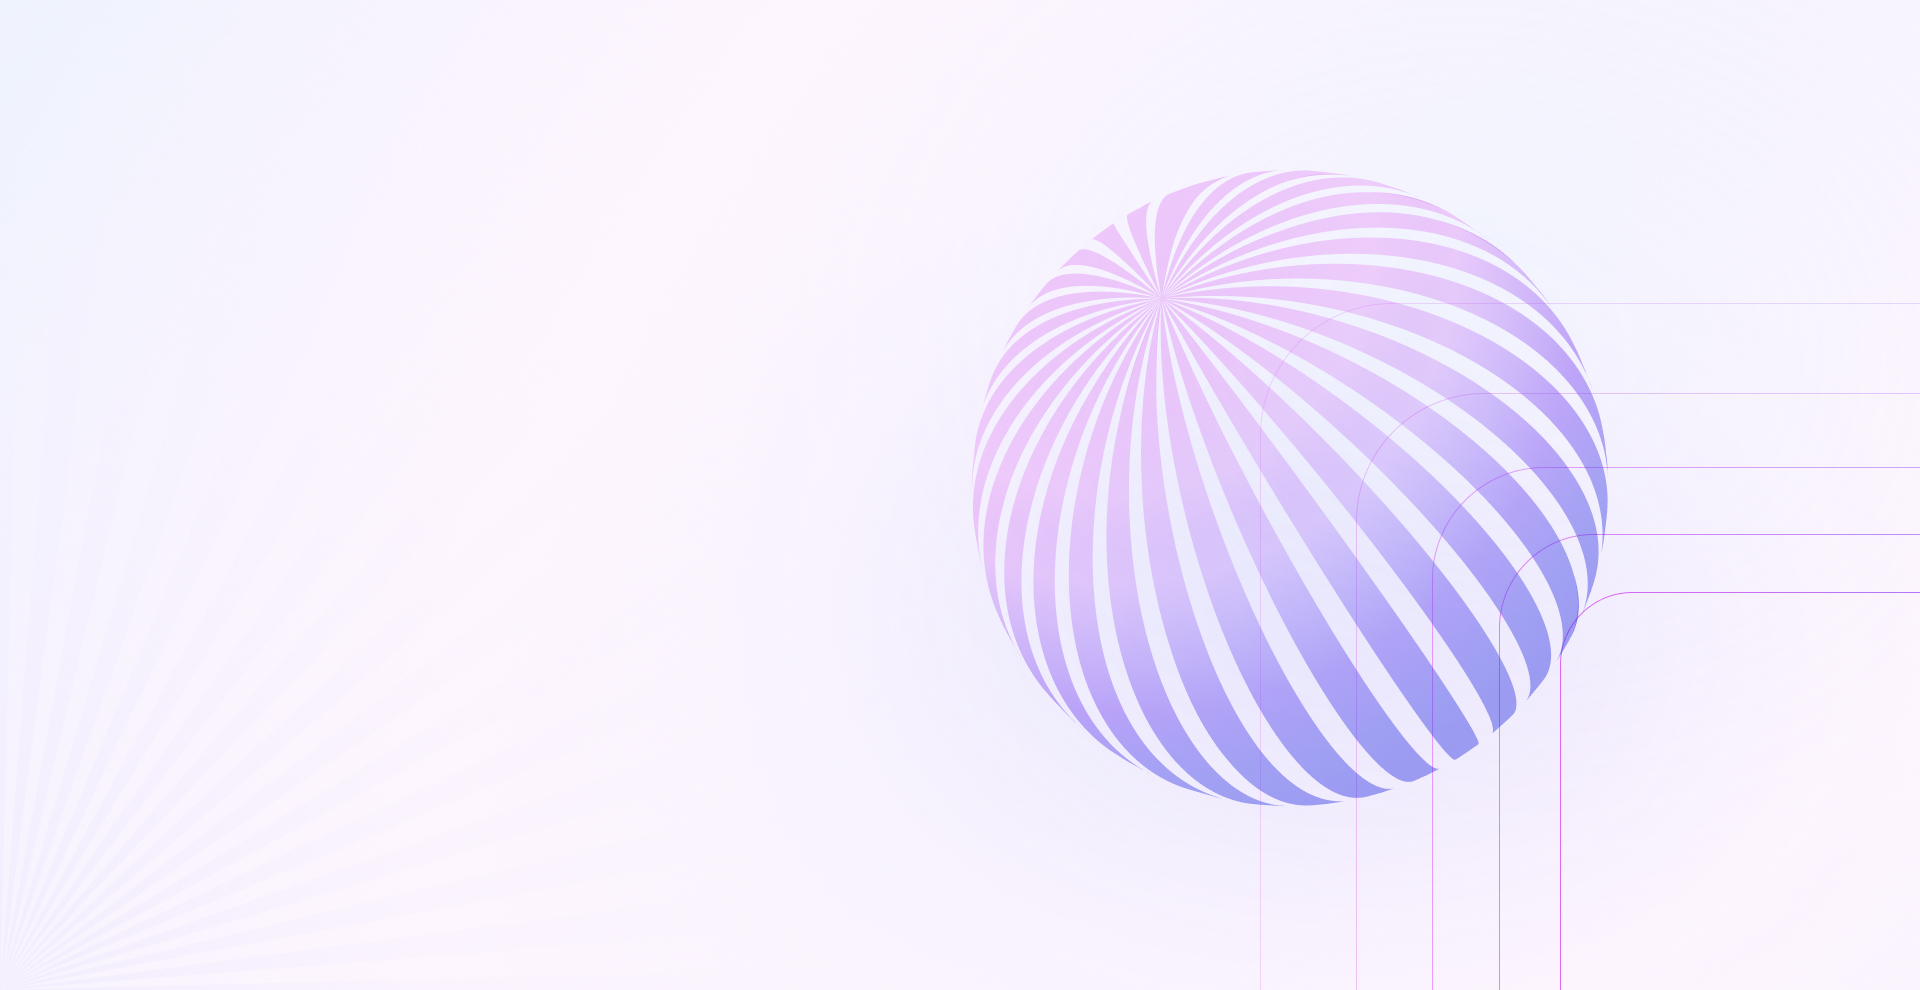
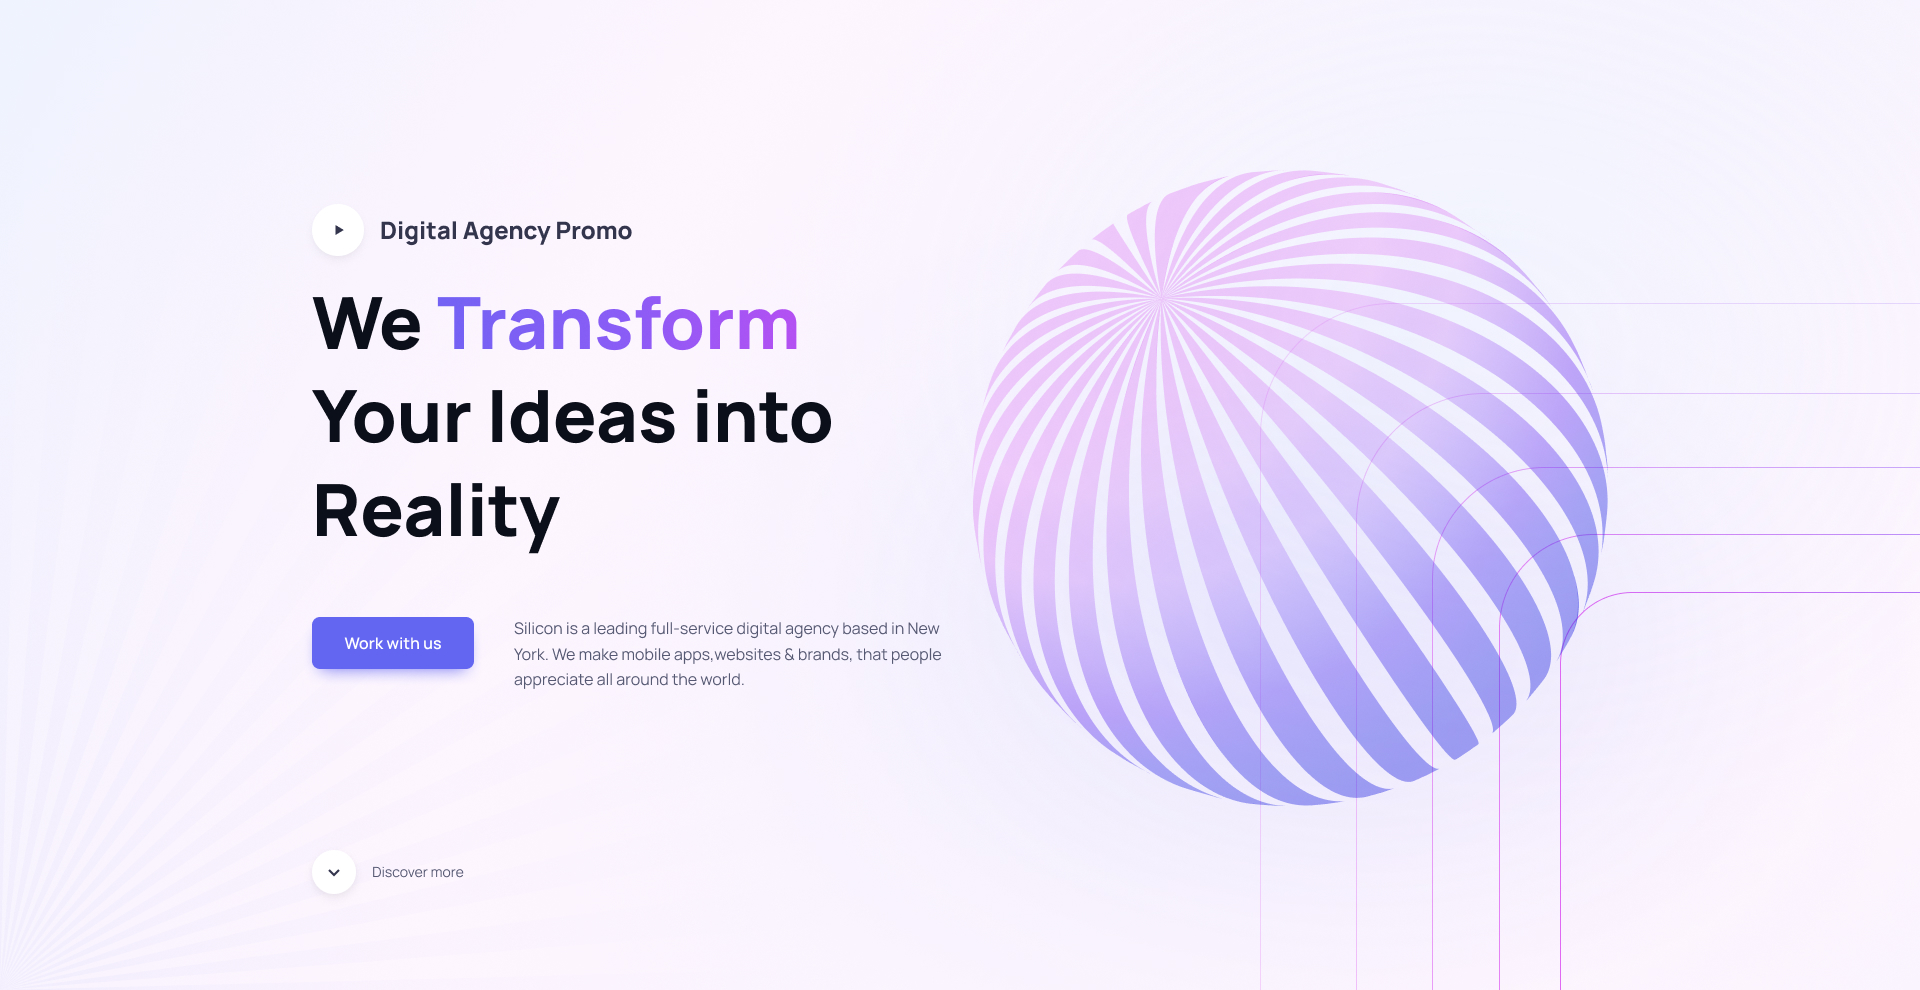
header

diff --git a/home.html b/home.html
@@ -57,6 +57,8 @@
             </div>
         </nav>
 
+        <div><img class="w-[1920px] h-[990px]" src="../team-project-1/images/header.jpg" alt=""></div>
+
        <div class="flex justify-between mt-[112px]">
          <div class="text-center">
             <img class="m-auto" src="./src/image/idea.png" alt="">
